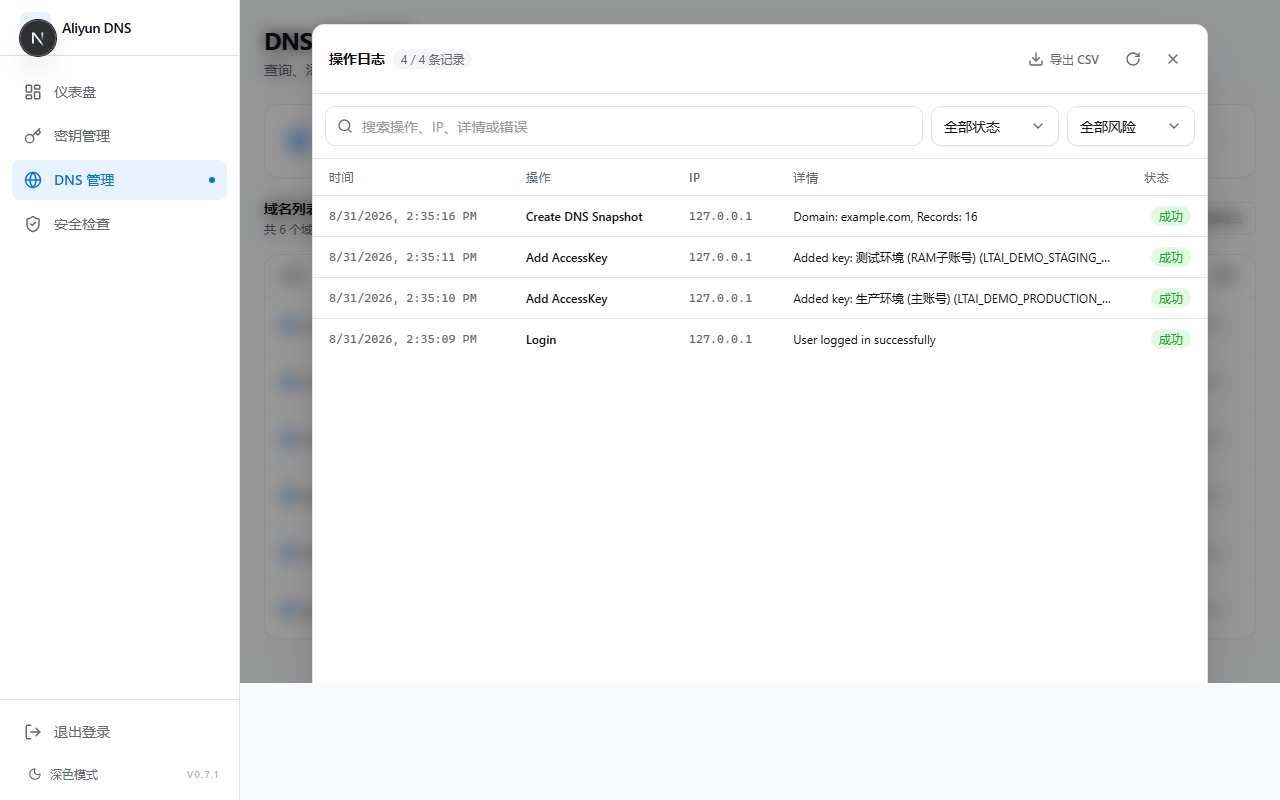
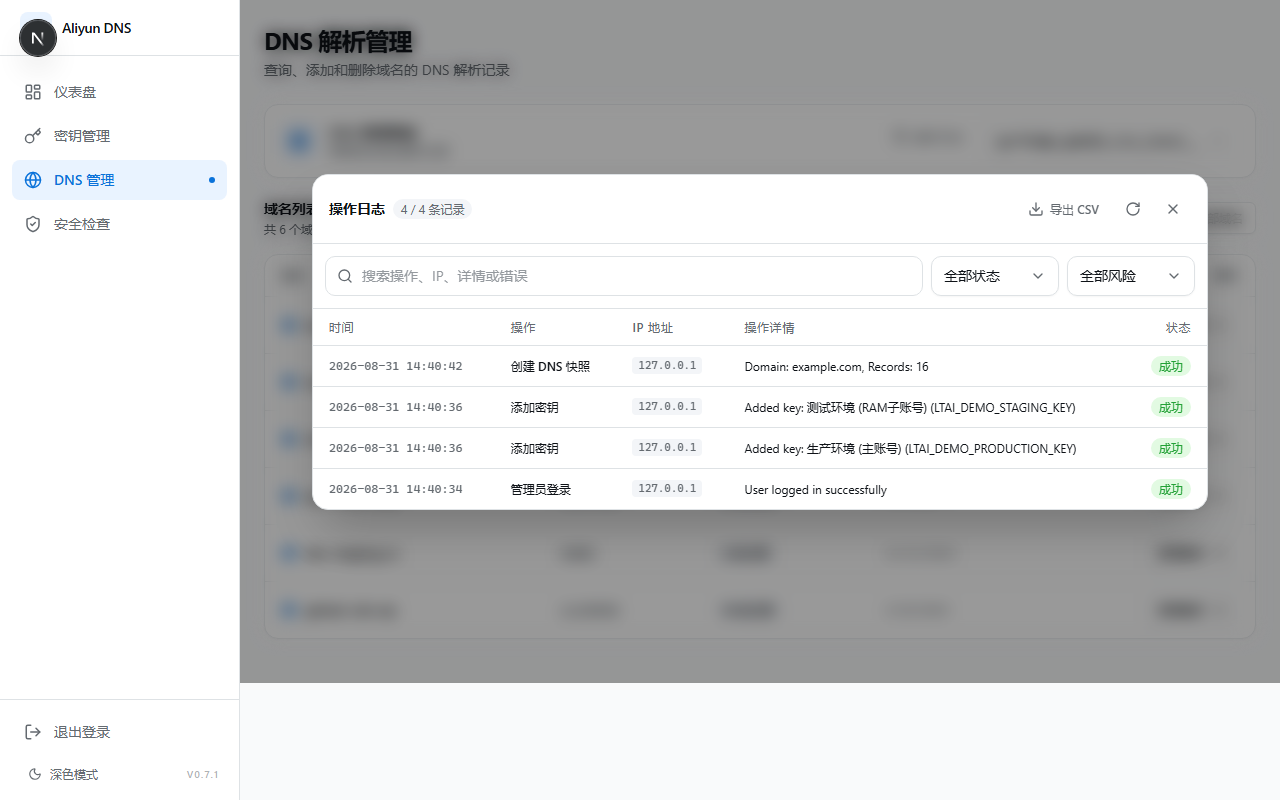
style: 优化操作日志弹窗自适应高度、时间格式化与操作中文标签

diff --git a/src/components/LogsViewer.tsx b/src/components/LogsViewer.tsx
@@ -17,6 +17,36 @@ interface LogsViewerProps {
 type StatusFilter = 'all' | LogEntry['status'];
 type RiskFilter = 'all' | 'high';
 
+const ACTION_LABELS: Record<string, string> = {
+  'Login': '管理员登录',
+  'Add AccessKey': '添加密钥',
+  'Update AccessKey': '修改密钥',
+  'Delete AccessKey': '删除密钥',
+  'Add DNS Record': '添加解析记录',
+  'Update DNS Record': '修改解析记录',
+  'Delete DNS Record': '删除解析记录',
+  'Set DNS Status': '切换解析状态',
+  'Batch Set Status': '批量修改状态',
+  'Batch Delete DNS': '批量删除记录',
+  'Batch Add DNS': '批量导入记录',
+  'Create DNS Snapshot': '创建 DNS 快照',
+  'Restore DNS Snapshot': '恢复 DNS 快照',
+  'Export Data Backup': '导出数据备份',
+  'Restore Data Backup': '恢复数据备份',
+};
+
+function formatLogTime(timestamp: string | number | Date): string {
+  const d = new Date(timestamp);
+  if (isNaN(d.getTime())) return String(timestamp);
+  const year = d.getFullYear();
+  const month = String(d.getMonth() + 1).padStart(2, '0');
+  const day = String(d.getDate()).padStart(2, '0');
+  const hours = String(d.getHours()).padStart(2, '0');
+  const minutes = String(d.getMinutes()).padStart(2, '0');
+  const seconds = String(d.getSeconds()).padStart(2, '0');
+  return `${year}-${month}-${day} ${hours}:${minutes}:${seconds}`;
+}
+
 export function LogsViewer({ isOpen, onClose }: LogsViewerProps) {
   const [logs, setLogs] = useState<LogEntry[]>([]);
   const [isLoading, setIsLoading] = useState(false);
@@ -43,7 +73,7 @@ export function LogsViewer({ isOpen, onClose }: LogsViewerProps) {
     if (statusFilter !== 'all' && log.status !== statusFilter) return false;
     if (riskFilter === 'high' && !isHighRiskLog(log)) return false;
     if (!deferredSearchTerm) return true;
-    return [log.action, log.ip, log.details, log.error]
+    return [log.action, log.ip, log.details, log.error, ACTION_LABELS[log.action]]
       .some((value) => value?.toLowerCase().includes(deferredSearchTerm));
   });
 
@@ -60,23 +90,21 @@ export function LogsViewer({ isOpen, onClose }: LogsViewerProps) {
   if (!isOpen) return null;
 
   return (
-    <div className="fixed inset-0 z-50 overflow-y-auto">
+    <div className="fixed inset-0 z-50 flex items-center justify-center p-3 sm:p-6">
       {/* Backdrop */}
       <div
         className="fixed inset-0 bg-black/40 backdrop-blur-sm animate-in fade-in duration-150"
         onClick={onClose}
       />
 
-      {/* Center wrapper */}
-      <div className="flex min-h-full items-center justify-center p-3 sm:p-6 text-center">
-        <div
-          role="dialog"
-          aria-modal="true"
-          aria-labelledby="logs-viewer-title"
-          className="relative w-full max-w-4xl h-[85vh] max-h-[750px] min-h-[420px] flex flex-col rounded-xl border shadow-2xl animate-in zoom-in-95 duration-150 overflow-hidden text-left pointer-events-auto"
-          style={{ borderColor: 'var(--border)', backgroundColor: 'var(--surface)' }}
-        >
-
+      {/* Modal Dialog */}
+      <div
+        role="dialog"
+        aria-modal="true"
+        aria-labelledby="logs-viewer-title"
+        className="relative z-10 w-full max-w-4xl max-h-[85vh] flex flex-col rounded-2xl border shadow-2xl animate-in zoom-in-95 duration-150 overflow-hidden text-left pointer-events-auto"
+        style={{ borderColor: 'var(--border)', backgroundColor: 'var(--surface)' }}
+      >
         {/* Header */}
         <div className="p-4 flex items-center justify-between shrink-0" style={{ borderBottom: '1px solid var(--border)', backgroundColor: 'var(--surface)' }}>
           <h3 id="logs-viewer-title" className="text-sm font-semibold flex items-center gap-2" style={{ color: 'var(--fg)' }}>
@@ -141,46 +169,65 @@ export function LogsViewer({ isOpen, onClose }: LogsViewerProps) {
             <table className="w-full text-xs border-separate border-spacing-0">
               <thead>
                 <tr>
-                  {['时间', '操作', 'IP', '详情', '状态'].map((h) => (
-                    <th key={h} className="px-4 py-2.5 font-medium text-left sticky top-0 border-b z-10"
-                      style={{ color: 'var(--muted)', textTransform: 'uppercase', letterSpacing: '0.05em', backgroundColor: 'var(--surface)', borderColor: 'var(--border)' }}>
-                      {h}
-                    </th>
-                  ))}
+                  <th className="px-4 py-2.5 font-medium text-left sticky top-0 border-b z-10 whitespace-nowrap"
+                    style={{ color: 'var(--muted)', textTransform: 'uppercase', letterSpacing: '0.05em', backgroundColor: 'var(--surface)', borderColor: 'var(--border)' }}>
+                    时间
+                  </th>
+                  <th className="px-4 py-2.5 font-medium text-left sticky top-0 border-b z-10 whitespace-nowrap"
+                    style={{ color: 'var(--muted)', textTransform: 'uppercase', letterSpacing: '0.05em', backgroundColor: 'var(--surface)', borderColor: 'var(--border)' }}>
+                    操作
+                  </th>
+                  <th className="px-4 py-2.5 font-medium text-left sticky top-0 border-b z-10 whitespace-nowrap"
+                    style={{ color: 'var(--muted)', textTransform: 'uppercase', letterSpacing: '0.05em', backgroundColor: 'var(--surface)', borderColor: 'var(--border)' }}>
+                    IP 地址
+                  </th>
+                  <th className="px-4 py-2.5 font-medium text-left sticky top-0 border-b z-10"
+                    style={{ color: 'var(--muted)', textTransform: 'uppercase', letterSpacing: '0.05em', backgroundColor: 'var(--surface)', borderColor: 'var(--border)' }}>
+                    操作详情
+                  </th>
+                  <th className="px-4 py-2.5 font-medium text-right sticky top-0 border-b z-10 whitespace-nowrap"
+                    style={{ color: 'var(--muted)', textTransform: 'uppercase', letterSpacing: '0.05em', backgroundColor: 'var(--surface)', borderColor: 'var(--border)' }}>
+                    状态
+                  </th>
                 </tr>
               </thead>
               <tbody>
                 {filteredLogs.length === 0 ? (
                   <tr>
-                    <td colSpan={5} className="px-4 py-10 text-center" style={{ color: 'var(--muted)' }}>
+                    <td colSpan={5} className="px-4 py-12 text-center" style={{ color: 'var(--muted)' }}>
                       {logs.length === 0 ? '暂无日志记录' : '未找到符合条件的日志'}
                     </td>
                   </tr>
                 ) : (
                   filteredLogs.map((log, index) => {
                     const isLast = index === filteredLogs.length - 1;
+                    const actionName = ACTION_LABELS[log.action] || log.action;
                     return (
                     <tr key={log.id} className="group transition-colors"
                       style={{ backgroundColor: 'transparent' }}
                       onMouseEnter={(e) => { e.currentTarget.style.backgroundColor = 'var(--surface-hover)'; }}
                       onMouseLeave={(e) => { e.currentTarget.style.backgroundColor = 'transparent'; }}>
                       <td className="px-4 py-2.5 font-mono whitespace-nowrap" style={{ color: 'var(--muted)', borderBottom: isLast ? 'none' : '1px solid var(--border)' }}>
-                        {new Date(log.timestamp).toLocaleString()}
+                        {formatLogTime(log.timestamp)}
                       </td>
-                      <td className="px-4 py-2.5 font-medium" style={{ color: 'var(--fg)', borderBottom: isLast ? 'none' : '1px solid var(--border)' }}>
-                        <div className="flex items-center gap-2">
-                          <span>{log.action}</span>
+                      <td className="px-4 py-2.5 font-medium whitespace-nowrap" style={{ color: 'var(--fg)', borderBottom: isLast ? 'none' : '1px solid var(--border)' }}>
+                        <div className="flex items-center gap-1.5">
+                          <span title={log.action}>{actionName}</span>
                           {isHighRiskLog(log) && (
                             <span className="rounded px-1.5 py-0.5 text-[10px] font-semibold" style={{ backgroundColor: 'var(--danger-light)', color: 'var(--danger)' }}>高风险</span>
                           )}
                         </div>
                       </td>
-                      <td className="px-4 py-2.5 font-mono" style={{ color: 'var(--muted)', borderBottom: isLast ? 'none' : '1px solid var(--border)' }}>{log.ip}</td>
-                      <td className="px-4 py-2.5 max-w-xs truncate" title={log.details} style={{ borderBottom: isLast ? 'none' : '1px solid var(--border)' }}>
-                        <span style={{ color: 'var(--fg)' }}>{log.details}</span>
-                        {log.error && <div className="mt-0.5" style={{ color: 'var(--danger)' }}>{log.error}</div>}
+                      <td className="px-4 py-2.5 font-mono whitespace-nowrap" style={{ color: 'var(--muted)', borderBottom: isLast ? 'none' : '1px solid var(--border)' }}>
+                        <span className="px-1.5 py-0.5 rounded text-[11px]" style={{ backgroundColor: 'var(--surface-hover)' }}>{log.ip}</span>
                       </td>
-                      <td className="px-4 py-2.5 text-right" style={{ borderBottom: isLast ? 'none' : '1px solid var(--border)' }}>
+                      <td className="px-4 py-2.5 max-w-sm" style={{ borderBottom: isLast ? 'none' : '1px solid var(--border)' }}>
+                        <div className="truncate" title={log.details}>
+                          <span style={{ color: 'var(--fg)' }}>{log.details}</span>
+                          {log.error && <div className="mt-0.5 text-xs truncate" style={{ color: 'var(--danger)' }}>{log.error}</div>}
+                        </div>
+                      </td>
+                      <td className="px-4 py-2.5 text-right whitespace-nowrap" style={{ borderBottom: isLast ? 'none' : '1px solid var(--border)' }}>
                         <span className="inline-flex items-center px-2 py-0.5 rounded-full text-xs font-medium"
                           style={{
                             backgroundColor: log.status === 'success' ? 'var(--success-light)' : 'var(--danger-light)',
@@ -199,6 +246,5 @@ export function LogsViewer({ isOpen, onClose }: LogsViewerProps) {
         </div>
       </div>
     </div>
-  </div>
   );
 }

diff --git a/src/components/DnsHistoryViewer.tsx b/src/components/DnsHistoryViewer.tsx
@@ -37,6 +37,18 @@ function getHistorySummary(log: LogEntry): string {
   return `共 ${context.records.length} 条记录`;
 }
 
+function formatHistoryTime(timestamp: string | number | Date): string {
+  const d = new Date(timestamp);
+  if (isNaN(d.getTime())) return String(timestamp);
+  const year = d.getFullYear();
+  const month = String(d.getMonth() + 1).padStart(2, '0');
+  const day = String(d.getDate()).padStart(2, '0');
+  const hours = String(d.getHours()).padStart(2, '0');
+  const minutes = String(d.getMinutes()).padStart(2, '0');
+  const seconds = String(d.getSeconds()).padStart(2, '0');
+  return `${year}-${month}-${day} ${hours}:${minutes}:${seconds}`;
+}
+
 export function DnsHistoryViewer({ domain, isOpen, onClose }: DnsHistoryViewerProps) {
   const [logs, setLogs] = useState<LogEntry[]>([]);
   const [isLoading, setIsLoading] = useState(false);
@@ -57,23 +69,21 @@ export function DnsHistoryViewer({ domain, isOpen, onClose }: DnsHistoryViewerPr
   if (!isOpen) return null;
 
   return (
-    <div className="fixed inset-0 z-50 overflow-y-auto">
+    <div className="fixed inset-0 z-50 flex items-center justify-center p-3 sm:p-6">
       {/* Backdrop */}
       <div
         className="fixed inset-0 bg-black/40 backdrop-blur-sm animate-in fade-in duration-150"
         onClick={onClose}
       />
 
-      {/* Center wrapper */}
-      <div className="flex min-h-full items-center justify-center p-3 sm:p-6 text-center">
-        <div
-          role="dialog"
-          aria-modal="true"
-          aria-labelledby="history-viewer-title"
-          className="relative w-full max-w-4xl h-[85vh] max-h-[750px] min-h-[420px] flex flex-col rounded-xl border shadow-2xl animate-in zoom-in-95 duration-150 overflow-hidden text-left pointer-events-auto"
-          style={{ borderColor: 'var(--border)', backgroundColor: 'var(--surface)' }}
-        >
-
+      {/* Modal Dialog */}
+      <div
+        role="dialog"
+        aria-modal="true"
+        aria-labelledby="history-viewer-title"
+        className="relative z-10 w-full max-w-4xl max-h-[85vh] flex flex-col rounded-2xl border shadow-2xl animate-in zoom-in-95 duration-150 overflow-hidden text-left pointer-events-auto"
+        style={{ borderColor: 'var(--border)', backgroundColor: 'var(--surface)' }}
+      >
         {/* Header */}
         <div className="flex items-center justify-between p-4 shrink-0 border-b" style={{ borderColor: 'var(--border)', backgroundColor: 'var(--surface)' }}>
           <div>
@@ -131,7 +141,7 @@ export function DnsHistoryViewer({ domain, isOpen, onClose }: DnsHistoryViewerPr
                         {log.error && <p className="mt-1 text-xs" style={{ color: 'var(--danger)' }}>{log.error}</p>}
                       </div>
                       <time className="shrink-0 font-mono text-xs" style={{ color: 'var(--muted)' }}>
-                        {new Date(log.timestamp).toLocaleString()}
+                        {formatHistoryTime(log.timestamp)}
                       </time>
                     </div>
                   </article>
@@ -142,6 +152,5 @@ export function DnsHistoryViewer({ domain, isOpen, onClose }: DnsHistoryViewerPr
         </div>
       </div>
     </div>
-  </div>
   );
 }
